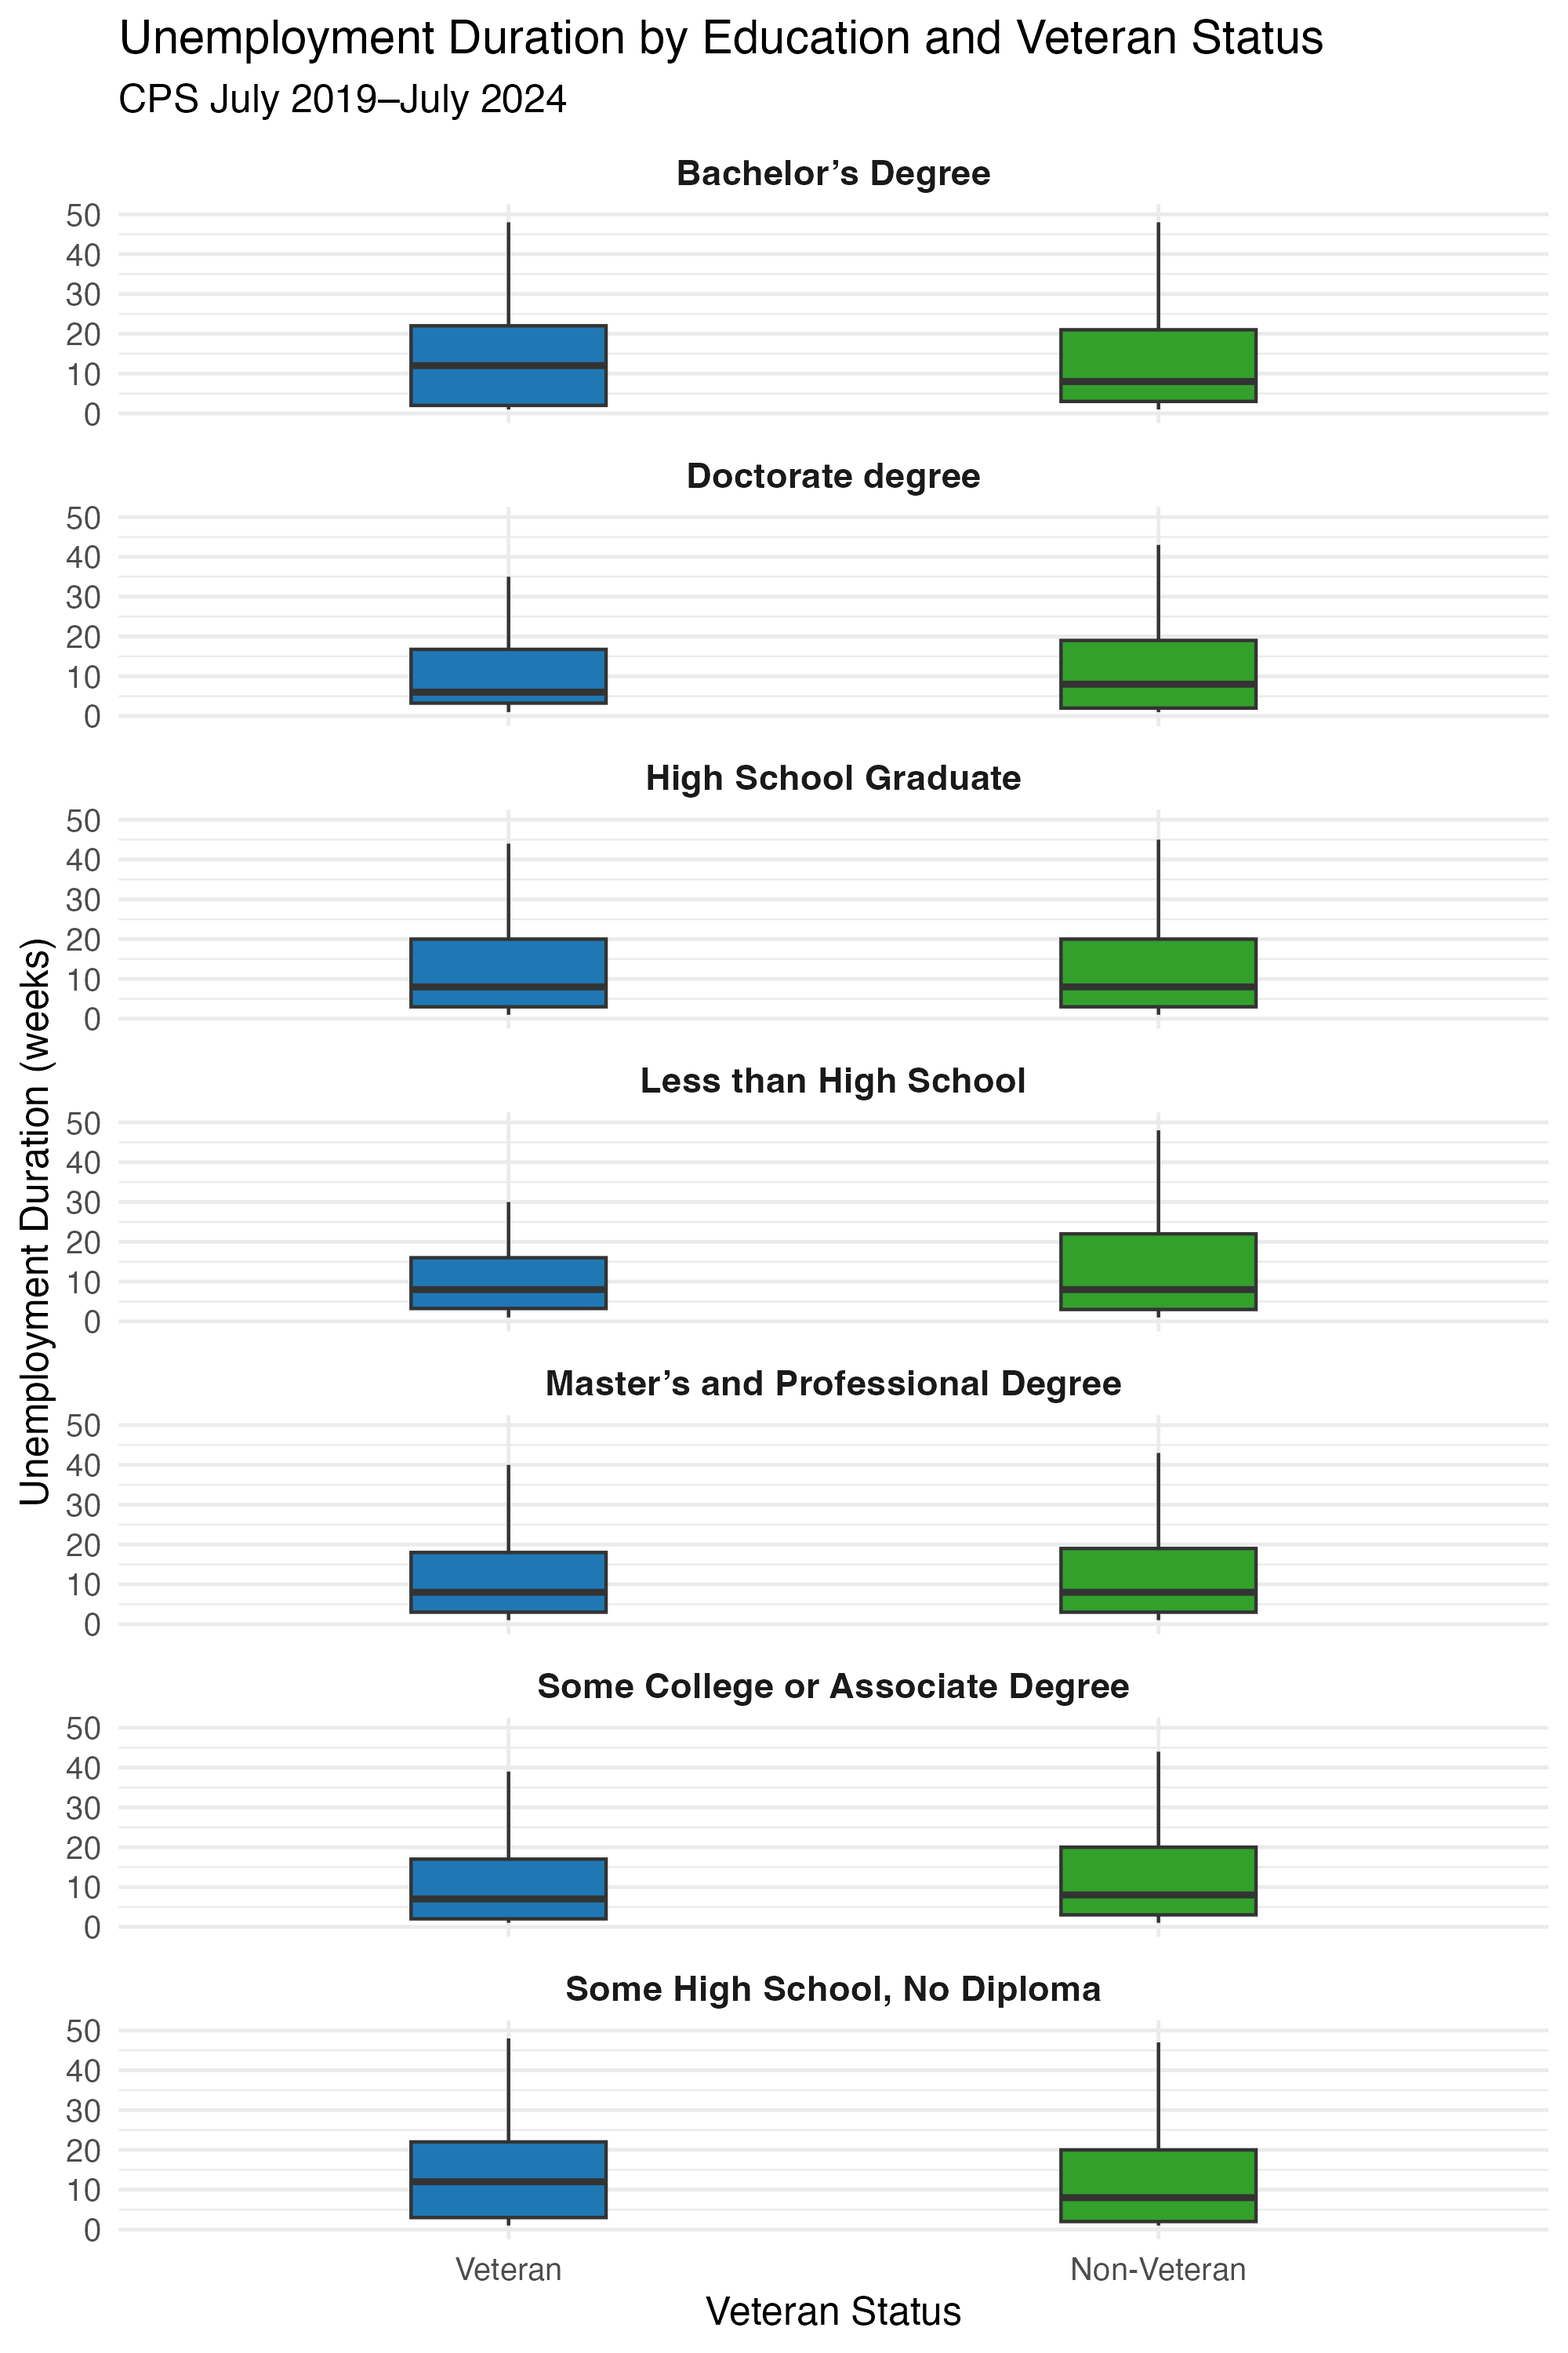
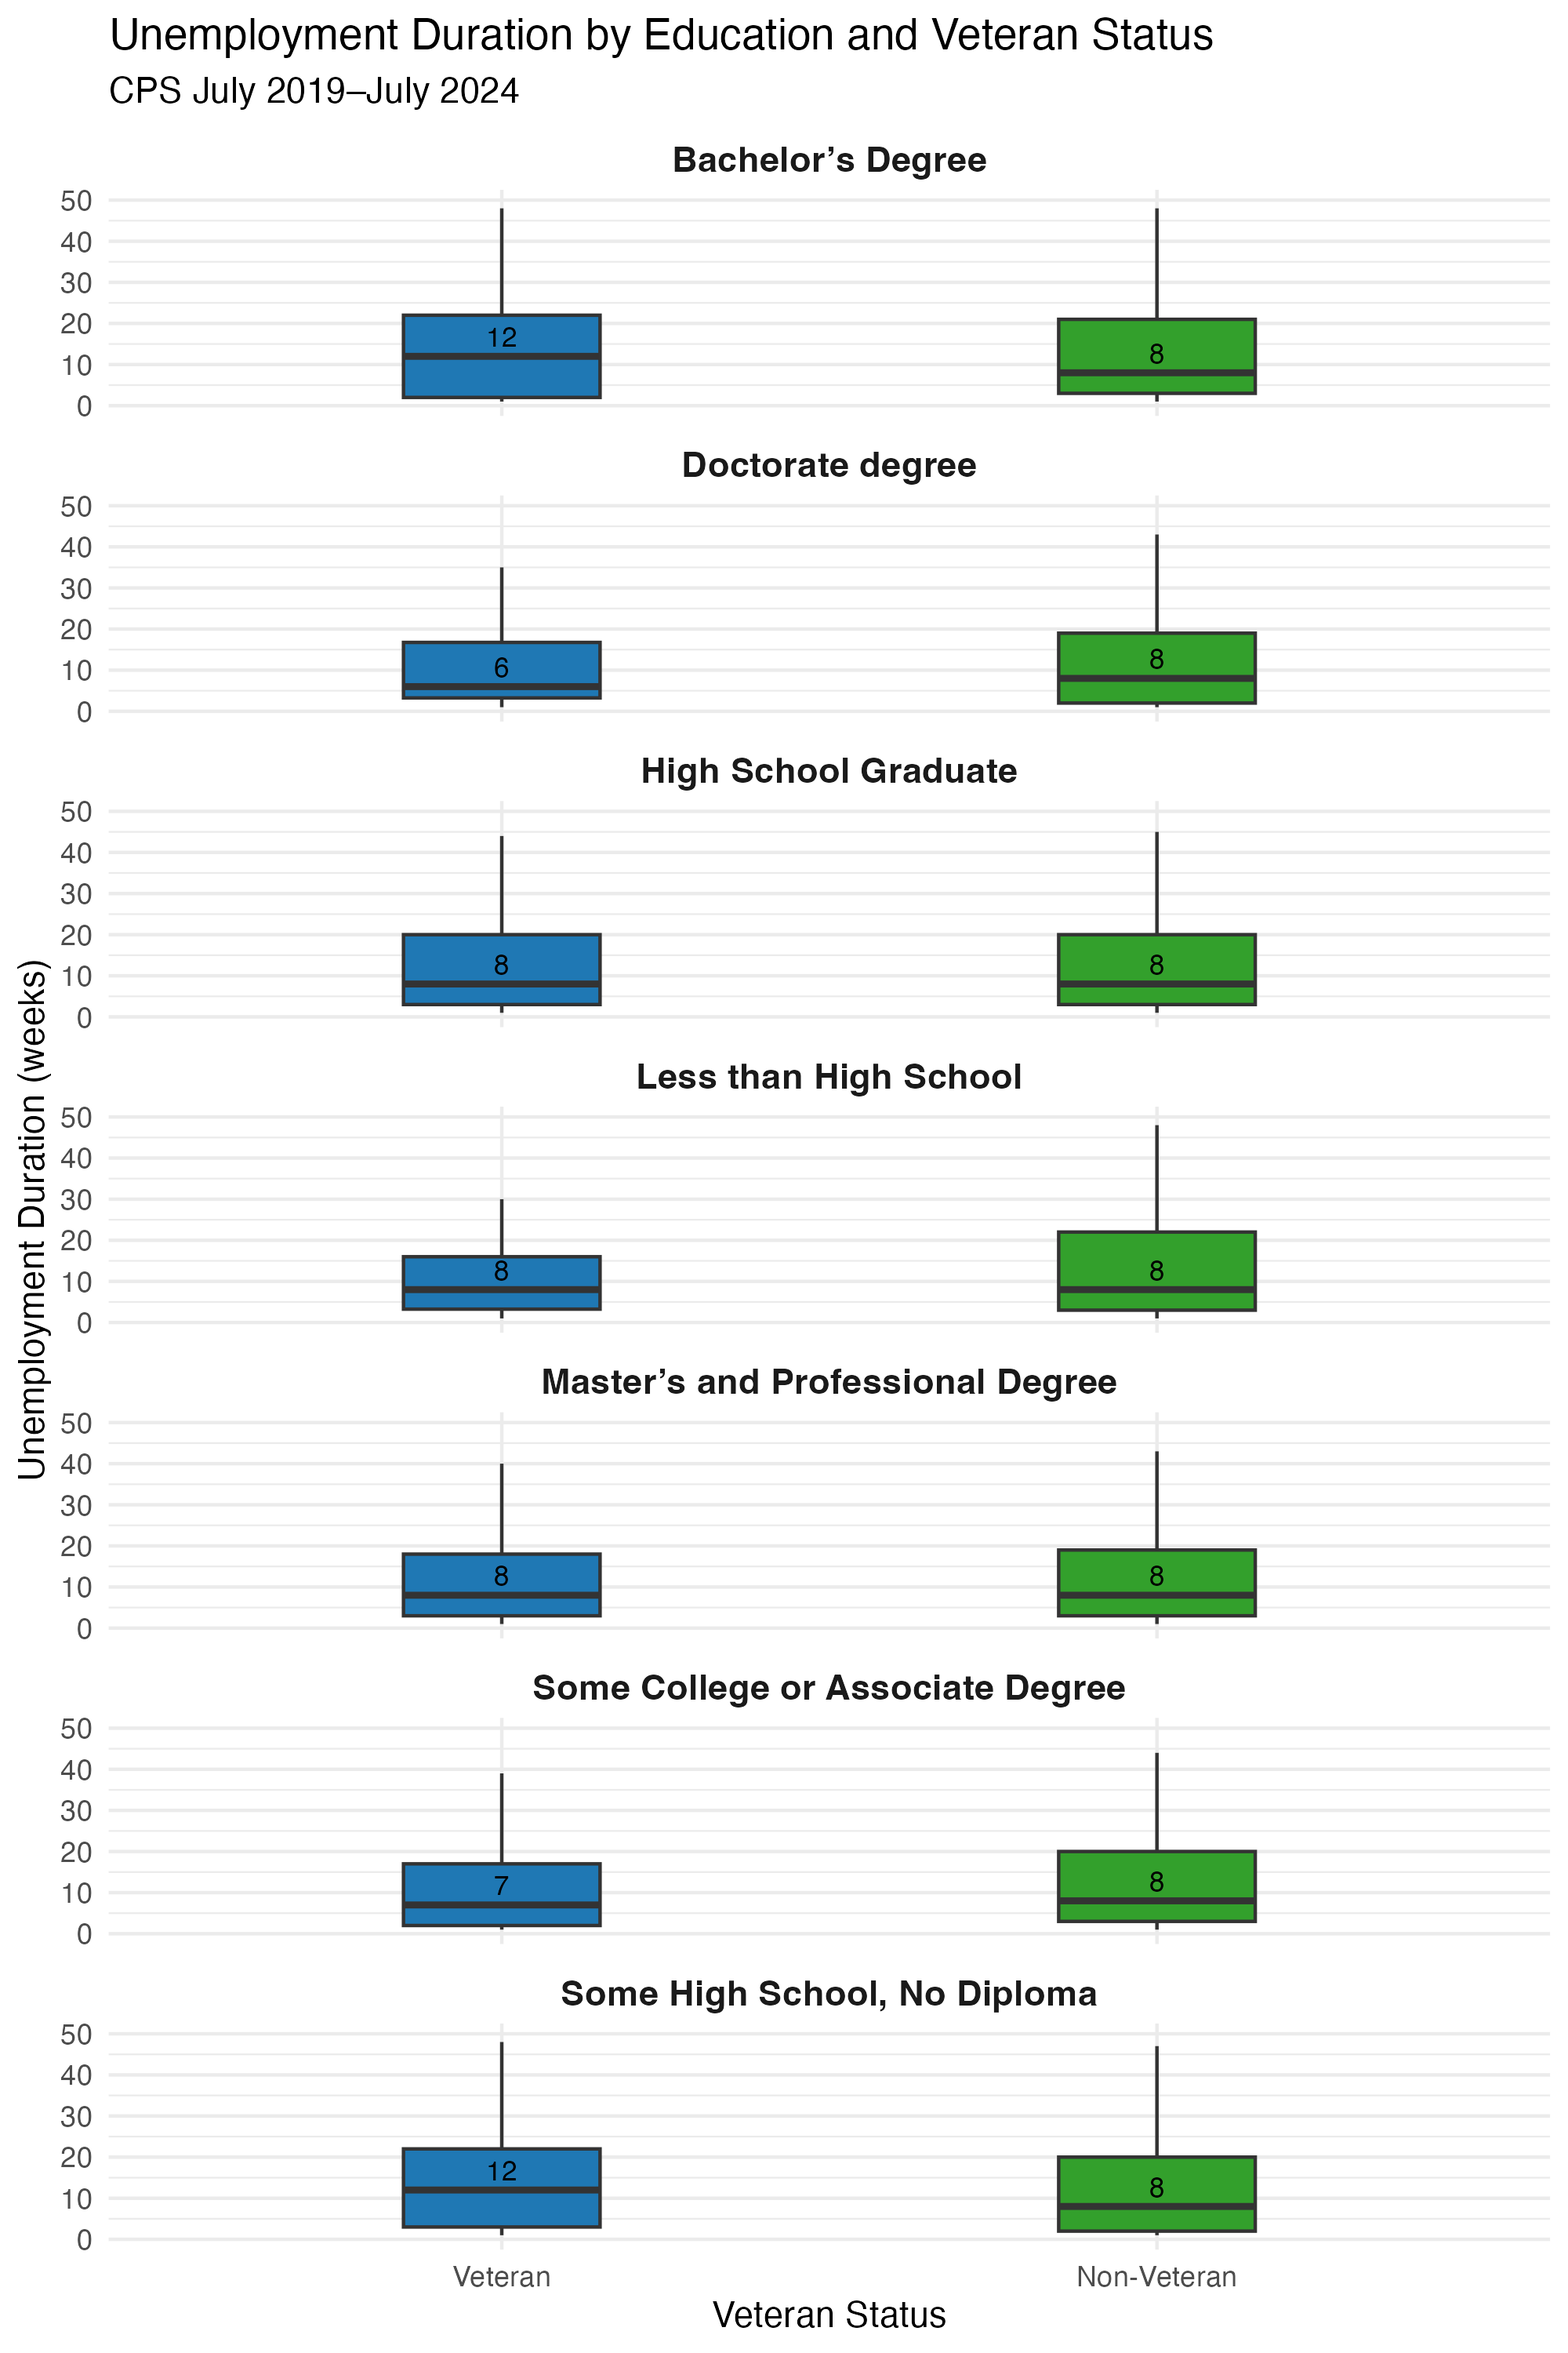
veteran page updates

diff --git a/docs/pages/my_third_page.html b/docs/pages/my_third_page.html
@@ -7,7 +7,7 @@
 <meta name="viewport" content="width=device-width, initial-scale=1.0, user-scalable=yes">
 
 
-<title>Unemployment acorss Different Racial Groups – PSYC167 Group Project - CPS</title>
+<title>Unemployment acorss different racial sub-group – PSYC167 Group Project - CPS</title>
 <style>
 code{white-space: pre-wrap;}
 span.smallcaps{font-variant: small-caps;}
@@ -19,6 +19,41 @@ ul.task-list li input[type="checkbox"] {
   width: 0.8em;
   margin: 0 0.8em 0.2em -1em; /* quarto-specific, see https://github.com/quarto-dev/quarto-cli/issues/4556 */ 
   vertical-align: middle;
+}
+/* CSS for syntax highlighting */
+html { -webkit-text-size-adjust: 100%; }
+pre > code.sourceCode { white-space: pre; position: relative; }
+pre > code.sourceCode > span { display: inline-block; line-height: 1.25; }
+pre > code.sourceCode > span:empty { height: 1.2em; }
+.sourceCode { overflow: visible; }
+code.sourceCode > span { color: inherit; text-decoration: inherit; }
+div.sourceCode { margin: 1em 0; }
+pre.sourceCode { margin: 0; }
+@media screen {
+div.sourceCode { overflow: auto; }
+}
+@media print {
+pre > code.sourceCode { white-space: pre-wrap; }
+pre > code.sourceCode > span { text-indent: -5em; padding-left: 5em; }
+}
+pre.numberSource code
+  { counter-reset: source-line 0; }
+pre.numberSource code > span
+  { position: relative; left: -4em; counter-increment: source-line; }
+pre.numberSource code > span > a:first-child::before
+  { content: counter(source-line);
+    position: relative; left: -1em; text-align: right; vertical-align: baseline;
+    border: none; display: inline-block;
+    -webkit-touch-callout: none; -webkit-user-select: none;
+    -khtml-user-select: none; -moz-user-select: none;
+    -ms-user-select: none; user-select: none;
+    padding: 0 4px; width: 4em;
+  }
+pre.numberSource { margin-left: 3em;  padding-left: 4px; }
+div.sourceCode
+  {   }
+@media screen {
+pre > code.sourceCode > span > a:first-child::before { text-decoration: underline; }
 }
 </style>
 
@@ -256,7 +291,7 @@ ul.task-list li input[type="checkbox"] {
           <div class="collapse navbar-collapse" id="navbarCollapse">
             <ul class="navbar-nav navbar-nav-scroll me-auto">
   <li class="nav-item">
-    <a class="nav-link" href="../pages/veteran_status.qmd"> 
+    <a class="nav-link" href="../pages/veteran_status.html"> 
 <span class="menu-text">Main Finding</span></a>
   </li>  
   <li class="nav-item dropdown ">
@@ -265,7 +300,7 @@ ul.task-list li input[type="checkbox"] {
     </a>
     <ul class="dropdown-menu" aria-labelledby="nav-menu-supplementary-factors">    
         <li>
-    <a class="dropdown-item" href="../pages/education.qmd">
+    <a class="dropdown-item" href="../pages/education.html">
  <span class="dropdown-text">Education</span></a>
   </li>  
         <li>
@@ -302,7 +337,7 @@ ul.task-list li input[type="checkbox"] {
     <h2 id="toc-title">On this page</h2>
    
   <ul>
-  <li><a href="#race-as-a-variable" id="toc-race-as-a-variable" class="nav-link active" data-scroll-target="#race-as-a-variable">Race as a Variable</a></li>
+  <li><a href="#race" id="toc-race" class="nav-link active" data-scroll-target="#race">Race</a></li>
   <li><a href="#unemployment-duration-by-racial-groups" id="toc-unemployment-duration-by-racial-groups" class="nav-link" data-scroll-target="#unemployment-duration-by-racial-groups">Unemployment Duration by Racial Groups</a></li>
   <li><a href="#proportion-of-long-term-unemployment-by-racial-groups" id="toc-proportion-of-long-term-unemployment-by-racial-groups" class="nav-link" data-scroll-target="#proportion-of-long-term-unemployment-by-racial-groups">Proportion of Long-Term Unemployment by Racial Groups</a></li>
   </ul>
@@ -314,7 +349,7 @@ ul.task-list li input[type="checkbox"] {
 
 <header id="title-block-header" class="quarto-title-block default">
 <div class="quarto-title">
-<h1 class="title">Unemployment acorss Different Racial Groups</h1>
+<h1 class="title">Unemployment acorss different racial sub-group</h1>
 </div>
 
 
@@ -331,14 +366,34 @@ ul.task-list li input[type="checkbox"] {
 </header>
 
 
-<section id="race-as-a-variable" class="level2">
-<h2 class="anchored" data-anchor-id="race-as-a-variable">Race as a Variable</h2>
+<div class="cell">
+<div class="sourceCode cell-code" id="cb1"><pre class="sourceCode r code-with-copy"><code class="sourceCode r"><span id="cb1-1"><a href="#cb1-1" aria-hidden="true" tabindex="-1"></a><span class="fu">source</span>(here<span class="sc">::</span><span class="fu">here</span>(<span class="st">"src"</span>, <span class="st">"figs"</span>, <span class="st">"plotting.R"</span>)) </span></code><button title="Copy to Clipboard" class="code-copy-button"><i class="bi"></i></button></pre></div>
+<div class="cell-output cell-output-stderr">
+<pre><code>── Attaching core tidyverse packages ──────────────────────── tidyverse 2.0.0 ──
+✔ dplyr     1.1.4     ✔ readr     2.1.5
+✔ forcats   1.0.0     ✔ stringr   1.5.1
+✔ ggplot2   3.5.2     ✔ tibble    3.3.0
+✔ lubridate 1.9.4     ✔ tidyr     1.3.1
+✔ purrr     1.1.0     
+── Conflicts ────────────────────────────────────────── tidyverse_conflicts() ──
+✖ dplyr::filter() masks stats::filter()
+✖ dplyr::lag()    masks stats::lag()
+ℹ Use the conflicted package (&lt;http://conflicted.r-lib.org/&gt;) to force all conflicts to become errors
+`summarise()` has grouped output by 'ptdtrace'. You can override using the `.groups` argument.</code></pre>
+</div>
+<div class="cell-output cell-output-stderr">
+<pre><code>Warning: Removed 1 row containing missing values or values outside the scale range
+(`geom_label_repel()`).</code></pre>
+</div>
+</div>
+<section id="race" class="level1">
+<h1>Race</h1>
 <p>Although our primary focus is on examining unemployment patterns across different veteran-status subgroups, it is valuable to incorporate race as an additional demographic variable. Race is a well-established determinant of labor-market outcomes, shaping access to employment opportunities, exposure to discrimination, educational pathways, and long-term earnings trajectories. By visualizing unemployment patterns across racial groups, we gain a deeper understanding of how these structural disparities may interact with veteran status.</p>
 <p>Including race allows us to better account for the intersectional nature of labor-market experiences. For example, the unemployment challenges faced by Black veterans may differ meaningfully from those faced by White or Hispanic veterans, even within the same veteran-status category. Without considering race, these nuanced patterns could remain obscured, potentially leading to oversimplified interpretations of unemployment trends.</p>
 <p>Incorporating race as a supplementary demographic factor therefore strengthens our analysis by acknowledging the multiple, overlapping social identities that shape individuals’ economic outcomes. It enables a more comprehensive and equitable assessment of unemployment dynamics, ensuring that policy implications derived from the project are sensitive to the diverse experiences of the veteran population.</p>
 </section>
-<section id="unemployment-duration-by-racial-groups" class="level2">
-<h2 class="anchored" data-anchor-id="unemployment-duration-by-racial-groups">Unemployment Duration by Racial Groups</h2>
+<section id="unemployment-duration-by-racial-groups" class="level1">
+<h1>Unemployment Duration by Racial Groups</h1>
 <div class="cell" data-layout-align="center">
 <div class="cell-output-display">
 <div id="fig-unemp-duration-race" class="quarto-float quarto-figure quarto-figure-center anchored" data-fig-align="center">
@@ -356,8 +411,8 @@ Figure&nbsp;1: Unemployment duration by racial groups
 <p>The line chart displays mean unemployment duration (in weeks) from 2020 to 2024 across several racial groups. Each line represents a racial category, showing how average unemployment spells have changed over time. A horizontal reference line at 15 weeks marks the threshold of long-term unemployment (according to the Bureau of Labor Statistics), helping contextualize which groups and years exceed this benchmark.</p>
 <p>This plot also highlights racial disparities in unemployment duration, particularly during the economic shocks of Covid Pandemic. While all groups experienced elevated unemployment durations during the early pandemic, the severity and pace of recovery differed across racial groups.</p>
 </section>
-<section id="proportion-of-long-term-unemployment-by-racial-groups" class="level2">
-<h2 class="anchored" data-anchor-id="proportion-of-long-term-unemployment-by-racial-groups">Proportion of Long-Term Unemployment by Racial Groups</h2>
+<section id="proportion-of-long-term-unemployment-by-racial-groups" class="level1">
+<h1>Proportion of Long-Term Unemployment by Racial Groups</h1>
 <div class="cell" data-layout-align="center">
 <div class="cell-output-display">
 <div id="fig-prop-longterm-duration-race" class="quarto-float quarto-figure quarto-figure-center anchored" data-fig-align="center">

diff --git a/docs/pages/education.html b/docs/pages/education.html
@@ -382,7 +382,7 @@ Figure&nbsp;2: Unemployment duration by education level overtime
 </section>
 <section id="unemployment-duration-by-education-and-veteran-status" class="level2">
 <h2 class="anchored" data-anchor-id="unemployment-duration-by-education-and-veteran-status">#3 Unemployment Duration by Education and Veteran Status</h2>
-<p>Description: This plot compares unemployment duration for veterans and non-veterans within each education category. By showing how these two identities intersect, it uncovers differences that are not visible in education-only comparisons. For some groups—especially those with lower education—veterans may face longer unemployment spells than non-veterans. Higher education seems to narrow these gaps.</p>
+<p>Description: This plot compares unemployment duration for veterans and non-veterans within each education category. The median number for each group is written in each boxed plots. By showing how these two identities intersect, it uncovers differences that are not visible in education-only comparisons. For some groups—especially those with lower education—veterans may face longer unemployment spells than non-veterans. Higher education seems to narrow these gaps. Interestingly, we found that the veteran group with bachelor’s degree has a harder time bouncing back form unemployment with a median of 12 weeks compared to the non-veteran group with bachelor’s degree with a median of 8 weeks.</p>
 <p>Why it matters: This plot shows that education interacts with veteran status in important ways. It demonstrates that educational disadvantage can be compounded by other demographic factors, revealing layers of inequality that influence unemployment duration.</p>
 <div class="cell" data-layout-align="center">
 <div class="cell-output-display">
